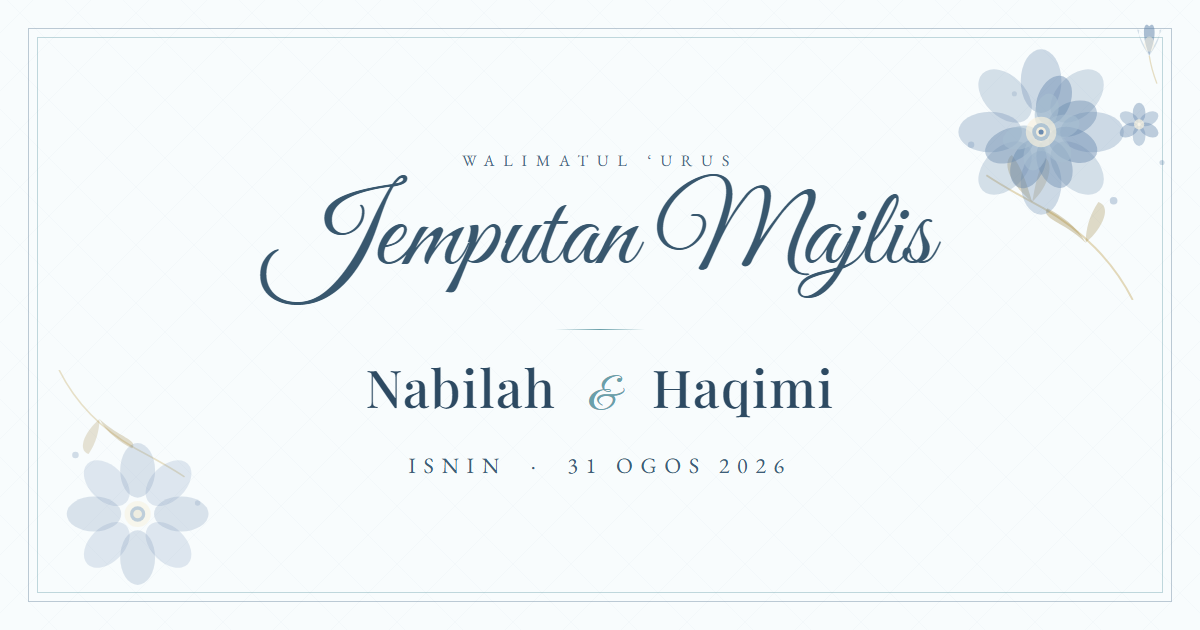
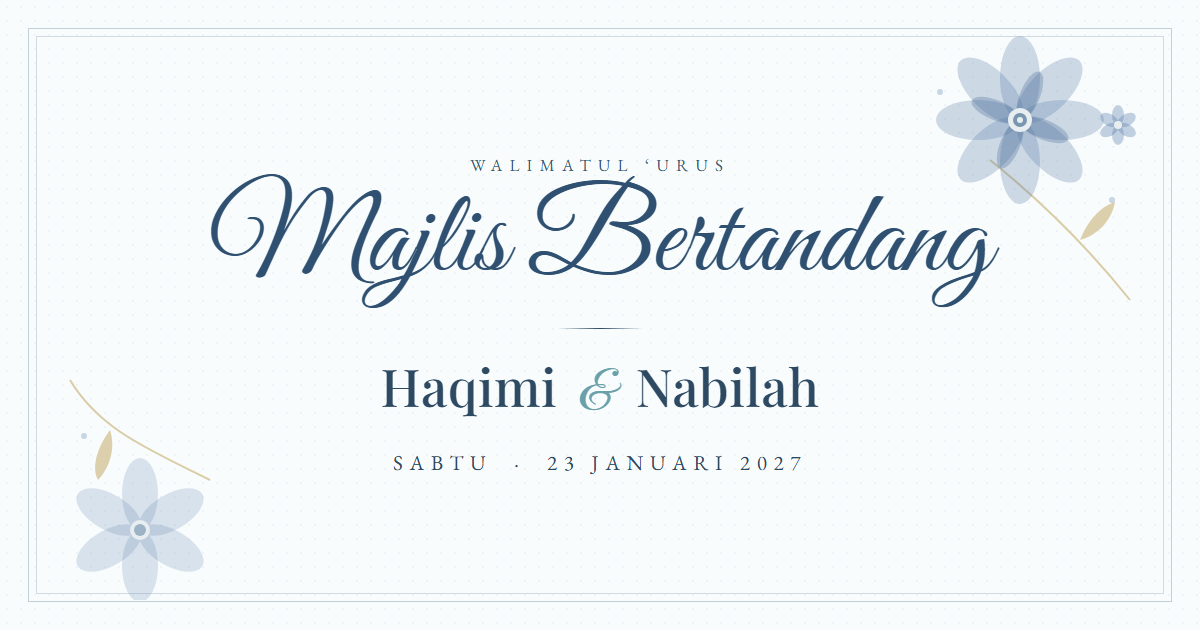
Refactor code structure for improved readability and maintainability

diff --git a/index.html b/index.html
@@ -3,8 +3,8 @@
 <head>
 <meta charset="UTF-8">
 <meta name="viewport" content="width=device-width, initial-scale=1.0">
-<title>Jemputan Majlis — Nabilah & Haqimi | 31 Ogos 2026</title>
-<meta name="description" content="Majlis Perkahwinan Nabilah & Haqimi | Isnin, 31 Ogos 2026. Tekan link untuk lihat undangan.">
+<title>Majlis Bertandang — Haqimi & Nabilah | 23 Januari 2027</title>
+<meta name="description" content="Majlis Bertandang Haqimi & Nabilah | Sabtu, 23 Januari 2027. Tekan link untuk lihat undangan.">
 
 <!-- Favicon -->
 <link rel="icon" type="image/png" sizes="32x32" href="favicon-32.png">
@@ -14,18 +14,18 @@
 <!-- Open Graph / WhatsApp / Facebook link preview -->
 <meta property="og:type" content="website">
 <meta property="og:url" content="https://qimibella.vercel.app/">
-<meta property="og:title" content="Jemputan Majlis — Nabilah & Haqimi">
-<meta property="og:description" content="Majlis Perkahwinan Nabilah & Haqimi | Isnin, 31 Ogos 2026. Tekan link untuk lihat undangan.">
-<meta property="og:image" content="https://qimibella.vercel.app/og-image.png">
+<meta property="og:title" content="Jemputan Majlis Bertandang — Haqimi & Nabilah">
+<meta property="og:description" content="Majlis Bertandang Haqimi & Nabilah | Sabtu, 23 Januari 2027. Tekan link untuk lihat undangan.">
+<meta property="og:image" content="https://qimibella.vercel.app/og-image.png?v=2">
 <meta property="og:image:width" content="1200">
 <meta property="og:image:height" content="630">
 <meta property="og:locale" content="ms_MY">
 
 <!-- Twitter Card -->
 <meta name="twitter:card" content="summary_large_image">
-<meta name="twitter:title" content="Jemputan Majlis — Nabilah & Haqimi">
-<meta name="twitter:description" content="Majlis Perkahwinan Nabilah & Haqimi | Isnin, 31 Ogos 2026. Tekan link untuk lihat undangan.">
-<meta name="twitter:image" content="https://qimibella.vercel.app/og-image.png">
+<meta name="twitter:title" content="Jemputan Majlis Bertandang — Haqimi & Nabilah">
+<meta name="twitter:description" content="Majlis Bertandang Haqimi & Nabilah | Sabtu, 23 Januari 2027. Tekan link untuk lihat undangan.">
+<meta name="twitter:image" content="https://qimibella.vercel.app/og-image.png?v=2">
 
 <link href="https://fonts.googleapis.com/css2?family=Great+Vibes&family=Ephesis&family=Parisienne&family=Playfair+Display:ital,wght@0,400;0,500;0,700;1,400;1,500&family=EB+Garamond:ital,wght@0,400;0,500;1,400&family=Montserrat:wght@200;300;400;500&display=swap" rel="stylesheet">
 <style>
@@ -891,10 +891,10 @@ input, select, textarea { font-size: 16px !important; } /* prevent iOS zoom */
       <div class="env-inner-card" id="env-inner-card">
         <div class="env-card-line"></div>
         <div class="env-card-names">
-          Nabilah<span class="env-card-amp"> &amp; </span>Haqimi
+          Haqimi<span class="env-card-amp"> &amp; </span>Nabilah
         </div>
         <div class="env-card-line"></div>
-        <div class="env-card-date">31 · 08 · 2026</div>
+        <div class="env-card-date">23 · 01 · 2027</div>
       </div>
       <!-- Wax seal -->
       <div class="env-seal">
@@ -1159,13 +1159,13 @@ input, select, textarea { font-size: 16px !important; } /* prevent iOS zoom */
     <p class="hero-invite">Dengan penuh kerendahan hati, kami menjemput kehadiran</p>
     <div class="hero-line"></div>
     <div class="hero-monogram" aria-hidden="true">
-      <span class="mono-n">N</span>
-      <span class="mono-h">H</span>
+      <span class="mono-n">H</span>
+      <span class="mono-h">N</span>
     </div>
-    <div class="hero-groom">Nabilah</div>
+    <div class="hero-groom">Haqimi</div>
     <div class="hero-amp">&amp;</div>
-    <div class="hero-bride">Haqimi</div>
-    <p class="hero-date">Isnin &nbsp;·&nbsp; 31 Ogos 2026</p>
+    <div class="hero-bride">Nabilah</div>
+    <p class="hero-date">Sabtu &nbsp;·&nbsp; 23 Januari 2027</p>
     <p class="hero-hashtags">#BellaFoundHerQimistry &nbsp;·&nbsp; #QimiRingTheBella &nbsp;·&nbsp; #QimiBella2026</p>
   </div>
   <div class="scroll-hint">
@@ -1184,14 +1184,14 @@ input, select, textarea { font-size: 16px !important; } /* prevent iOS zoom */
 
   <div class="family-wrap">
     <div class="family-names">
-      Zahar (Mail) Bin Ithnin<br>
+      Harun Bin Salleh<br>
       <span class="family-and">&amp;</span><br>
-      Sa'diah Binti Othman
+      Cheku Noor Hayati Binti Jusoh
     </div>
     <div class="family-invite-text">
       dengan penuh kegembiraan dan kebanggaan<br>
       menjemput kehadiran Tuan / Puan<br>
-      ke majlis perkahwinan anakanda mereka
+      ke majlis menyambut menantu mereka
     </div>
   </div>
 </section>
@@ -1202,14 +1202,44 @@ input, select, textarea { font-size: 16px !important; } /* prevent iOS zoom */
   <div class="sec-rose sec-rose-tr"><svg viewBox="0 0 80 80" fill="none" xmlns="http://www.w3.org/2000/svg"><path d="M6 78 C10 58 16 38 22 18" stroke="rgba(140,108,28,0.4)" stroke-width="1.2" fill="none"/><path d="M14 52 C2 45 0 33 6 29 C12 38 14 46 14 52Z" fill="rgba(140,108,28,0.28)"/><path d="M14 52 C26 45 28 33 22 29 C18 38 15 46 14 52Z" fill="rgba(140,108,28,0.2)"/><g transform="translate(22,18)"><ellipse cx="0" cy="-14" rx="8" ry="11" fill="rgba(91,127,168,0.38)" transform="rotate(0)"/><ellipse cx="0" cy="-14" rx="8" ry="11" fill="rgba(91,127,168,0.32)" transform="rotate(45)"/><ellipse cx="0" cy="-14" rx="8" ry="11" fill="rgba(91,127,168,0.38)" transform="rotate(90)"/><ellipse cx="0" cy="-14" rx="8" ry="11" fill="rgba(91,127,168,0.32)" transform="rotate(135)"/><ellipse cx="0" cy="-14" rx="8" ry="11" fill="rgba(91,127,168,0.38)" transform="rotate(180)"/><ellipse cx="0" cy="-14" rx="8" ry="11" fill="rgba(91,127,168,0.32)" transform="rotate(225)"/><ellipse cx="0" cy="-14" rx="8" ry="11" fill="rgba(91,127,168,0.38)" transform="rotate(270)"/><ellipse cx="0" cy="-14" rx="8" ry="11" fill="rgba(91,127,168,0.32)" transform="rotate(315)"/><ellipse cx="0" cy="-9" rx="5" ry="7" fill="rgba(160,185,205,0.52)" transform="rotate(22)"/><ellipse cx="0" cy="-9" rx="5" ry="7" fill="rgba(160,185,205,0.46)" transform="rotate(112)"/><ellipse cx="0" cy="-9" rx="5" ry="7" fill="rgba(160,185,205,0.52)" transform="rotate(202)"/><circle r="5" fill="rgba(247,240,220,0.65)"/><circle r="2.5" fill="rgba(160,185,205,0.88)"/></g><g transform="translate(22,6)"><path d="M0 0 C-3,-8 -1,-13 0,-10 C1,-13 3,-8 0,0Z" fill="rgba(91,127,168,0.45)"/><path d="M0 0 C2,-7 4,-10 3,-9 C2,-6 1,-3 0,0Z" fill="rgba(160,185,205,0.38)"/></g></svg></div>
   <div class="sec-rose sec-rose-bl"><svg viewBox="0 0 80 80" fill="none" xmlns="http://www.w3.org/2000/svg"><path d="M6 78 C10 58 16 38 22 18" stroke="rgba(140,108,28,0.4)" stroke-width="1.2" fill="none"/><path d="M14 52 C2 45 0 33 6 29 C12 38 14 46 14 52Z" fill="rgba(140,108,28,0.28)"/><path d="M14 52 C26 45 28 33 22 29 C18 38 15 46 14 52Z" fill="rgba(140,108,28,0.2)"/><g transform="translate(22,18)"><ellipse cx="0" cy="-14" rx="8" ry="11" fill="rgba(91,127,168,0.38)" transform="rotate(0)"/><ellipse cx="0" cy="-14" rx="8" ry="11" fill="rgba(91,127,168,0.32)" transform="rotate(45)"/><ellipse cx="0" cy="-14" rx="8" ry="11" fill="rgba(91,127,168,0.38)" transform="rotate(90)"/><ellipse cx="0" cy="-14" rx="8" ry="11" fill="rgba(91,127,168,0.32)" transform="rotate(135)"/><ellipse cx="0" cy="-14" rx="8" ry="11" fill="rgba(91,127,168,0.38)" transform="rotate(180)"/><ellipse cx="0" cy="-14" rx="8" ry="11" fill="rgba(91,127,168,0.32)" transform="rotate(225)"/><ellipse cx="0" cy="-14" rx="8" ry="11" fill="rgba(91,127,168,0.38)" transform="rotate(270)"/><ellipse cx="0" cy="-14" rx="8" ry="11" fill="rgba(91,127,168,0.32)" transform="rotate(315)"/><ellipse cx="0" cy="-9" rx="5" ry="7" fill="rgba(160,185,205,0.52)" transform="rotate(22)"/><ellipse cx="0" cy="-9" rx="5" ry="7" fill="rgba(160,185,205,0.46)" transform="rotate(112)"/><ellipse cx="0" cy="-9" rx="5" ry="7" fill="rgba(160,185,205,0.52)" transform="rotate(202)"/><circle r="5" fill="rgba(247,240,220,0.65)"/><circle r="2.5" fill="rgba(160,185,205,0.88)"/></g><g transform="translate(22,6)"><path d="M0 0 C-3,-8 -1,-13 0,-10 C1,-13 3,-8 0,0Z" fill="rgba(91,127,168,0.45)"/><path d="M0 0 C2,-7 4,-10 3,-9 C2,-6 1,-3 0,0Z" fill="rgba(160,185,205,0.38)"/></g></svg></div>
   <div class="sec-rose sec-rose-br"><svg viewBox="0 0 80 80" fill="none" xmlns="http://www.w3.org/2000/svg"><path d="M6 78 C10 58 16 38 22 18" stroke="rgba(140,108,28,0.4)" stroke-width="1.2" fill="none"/><path d="M14 52 C2 45 0 33 6 29 C12 38 14 46 14 52Z" fill="rgba(140,108,28,0.28)"/><path d="M14 52 C26 45 28 33 22 29 C18 38 15 46 14 52Z" fill="rgba(140,108,28,0.2)"/><g transform="translate(22,18)"><ellipse cx="0" cy="-14" rx="8" ry="11" fill="rgba(91,127,168,0.38)" transform="rotate(0)"/><ellipse cx="0" cy="-14" rx="8" ry="11" fill="rgba(91,127,168,0.32)" transform="rotate(45)"/><ellipse cx="0" cy="-14" rx="8" ry="11" fill="rgba(91,127,168,0.38)" transform="rotate(90)"/><ellipse cx="0" cy="-14" rx="8" ry="11" fill="rgba(91,127,168,0.32)" transform="rotate(135)"/><ellipse cx="0" cy="-14" rx="8" ry="11" fill="rgba(91,127,168,0.38)" transform="rotate(180)"/><ellipse cx="0" cy="-14" rx="8" ry="11" fill="rgba(91,127,168,0.32)" transform="rotate(225)"/><ellipse cx="0" cy="-14" rx="8" ry="11" fill="rgba(91,127,168,0.38)" transform="rotate(270)"/><ellipse cx="0" cy="-14" rx="8" ry="11" fill="rgba(91,127,168,0.32)" transform="rotate(315)"/><ellipse cx="0" cy="-9" rx="5" ry="7" fill="rgba(160,185,205,0.52)" transform="rotate(22)"/><ellipse cx="0" cy="-9" rx="5" ry="7" fill="rgba(160,185,205,0.46)" transform="rotate(112)"/><ellipse cx="0" cy="-9" rx="5" ry="7" fill="rgba(160,185,205,0.52)" transform="rotate(202)"/><circle r="5" fill="rgba(247,240,220,0.65)"/><circle r="2.5" fill="rgba(160,185,205,0.88)"/></g><g transform="translate(22,6)"><path d="M0 0 C-3,-8 -1,-13 0,-10 C1,-13 3,-8 0,0Z" fill="rgba(91,127,168,0.45)"/><path d="M0 0 C2,-7 4,-10 3,-9 C2,-6 1,-3 0,0Z" fill="rgba(160,185,205,0.38)"/></g></svg></div>
-  <p class="section-eyebrow">Bakal Pengantin</p>
+  <p class="section-eyebrow">Raja Sehari</p>
   <div class="divider"><span>✦</span></div>
 
-  <div class="couple-big-name reveal reveal-delay-1">Nadiatul Nabilah</div>
-  <div class="couple-big-full reveal reveal-delay-1">Nadiatul Nabilah binti Zahar</div>
+  <div class="couple-big-name reveal reveal-delay-1">Muhammad Haqimi</div>
+  <div class="couple-big-full reveal reveal-delay-1">Muhammad Haqimi bin Harun</div>
   <div class="couple-big-amp reveal reveal-delay-2">&amp;</div>
-  <div class="couple-big-name reveal reveal-delay-3">Muhammad Haqimi</div>
-  <div class="couple-big-full reveal reveal-delay-3">Muhammad Haqimi bin Harun</div>
+  <div class="couple-big-name reveal reveal-delay-3">Nadiatul Nabilah</div>
+  <div class="couple-big-full reveal reveal-delay-3">Nadiatul Nabilah binti Zahar</div>
+</div>
+
+<!-- ══════════════ GALLERY ══════════════ -->
+<div class="gallery-section reveal">
+  <div style="max-width:720px;margin:0 auto;text-align:center">
+    <p class="section-eyebrow">Kenangan Bersama</p>
+    <h2 class="section-title">Galeri</h2>
+    <div class="divider"><span>✦</span></div>
+    <div class="gallery-grid">
+      <div class="gallery-item main-photo" onclick="openLightbox(0)">
+        <img src="photo1.jpg" alt="Haqimi &amp; Nabilah memotong kek" style="object-position:center 30%" loading="lazy" onload="this.classList.add('loaded')" onerror="this.remove()">
+      </div>
+      <div class="gallery-item" onclick="openLightbox(1)">
+        <img src="photo2.jpg" alt="Majlis akad nikah" loading="lazy" onload="this.classList.add('loaded')" onerror="this.remove()">
+      </div>
+      <div class="gallery-item" onclick="openLightbox(2)">
+        <img src="photo3.jpg" alt="Menyarung cincin" loading="lazy" onload="this.classList.add('loaded')" onerror="this.remove()">
+      </div>
+      <div class="gallery-item" onclick="openLightbox(3)">
+        <img src="photo4.jpg" alt="Berjalan berpegangan tangan" loading="lazy" onload="this.classList.add('loaded')" onerror="this.remove()">
+      </div>
+      <div class="gallery-item" onclick="openLightbox(4)">
+        <img src="photo5.jpg" alt="Duduk bersama di taman" loading="lazy" onload="this.classList.add('loaded')" onerror="this.remove()">
+      </div>
+    </div>
+  </div>
+</div>
+<div class="lightbox" id="lightbox" onclick="closeLightbox()">
+  <button class="lightbox-close" onclick="event.stopPropagation();closeLightbox()">✕</button>
+  <img id="lightbox-img" src="" alt="">
 </div>
 
 <!-- ══════════════ EVENTS ══════════════ -->
@@ -1223,36 +1253,12 @@ input, select, textarea { font-size: 16px !important; } /* prevent iOS zoom */
 
     <!-- Single merged card -->
     <div class="event-card reveal" style="max-width:520px;margin:0 auto">
-      <span class="event-tag">Isnin · 31 Ogos 2026</span>
+      <span class="event-tag">Sabtu · 23 Januari 2027</span>
 
-      <!-- Akad Nikah row -->
+      <!-- Majlis Bertandang row -->
       <div style="margin-top:24px;margin-bottom:8px">
-        <div class="event-name" style="font-size:20px;margin-bottom:14px">Akad Nikah</div>
-        <div class="event-detail-row">
-          <svg viewBox="0 0 24 24" stroke-width="1.5"><circle cx="12" cy="12" r="10"/><path d="M12 6v6l4 2"/></svg>
-          <span>9:00 pagi — 10:30 pagi</span>
-        </div>
-        <div class="event-detail-row" style="align-items:flex-start">
-          <svg viewBox="0 0 24 24" stroke-width="1.5" style="margin-top:2px"><circle cx="12" cy="10" r="3"/><path d="M12 2C8.13 2 5 5.13 5 9c0 5.25 7 13 7 13s7-7.75 7-13c0-3.87-3.13-7-7-7z"/></svg>
-          <span>Masjid Al-Abrar, Balik Bukit</span>
-        </div>
-        <div class="map-btns" style="margin-top:14px">
-          <a class="map-btn" href="https://waze.com/ul/hw22u2w3n5" target="_blank" rel="noopener">
-            <svg viewBox="0 0 24 24" stroke-width="1.5"><circle cx="12" cy="10" r="3"/><path d="M12 2C8.13 2 5 5.13 5 9c0 5.25 7 13 7 13s7-7.75 7-13c0-3.87-3.13-7-7-7z"/></svg>
-            Waze
-          </a>
-          <a class="map-btn" href="https://maps.app.goo.gl/ttTGHLoP1aNbjdee9?g_st=ic" target="_blank" rel="noopener">
-            <svg viewBox="0 0 24 24" stroke-width="1.5"><circle cx="12" cy="10" r="3"/><path d="M12 2C8.13 2 5 5.13 5 9c0 5.25 7 13 7 13s7-7.75 7-13c0-3.87-3.13-7-7-7z"/></svg>
-            Google Maps
-          </a>
-        </div>
-      </div>
-
-      <div class="event-sep"></div>
-
-      <!-- Walimatul Urus row -->
-      <div style="margin-bottom:8px">
-        <div class="event-name" style="font-size:20px;margin-bottom:14px">Walimatul 'Urus</div>
+        <div class="event-name" style="font-size:20px;margin-bottom:4px">Walimatul 'Urus</div>
+        <div style="font-family:'EB Garamond',serif;font-style:italic;font-size:15px;opacity:0.75;margin-bottom:14px">(Majlis Bertandang)</div>
         <div class="event-detail-row">
           <svg viewBox="0 0 24 24" stroke-width="1.5"><circle cx="12" cy="12" r="10"/><path d="M12 6v6l4 2"/></svg>
           <span>Jamuan Makan: 11:30 pagi — 4:00 petang</span>
@@ -1263,14 +1269,10 @@ input, select, textarea { font-size: 16px !important; } /* prevent iOS zoom */
         </div>
         <div class="event-detail-row" style="align-items:flex-start">
           <svg viewBox="0 0 24 24" stroke-width="1.5" style="margin-top:2px"><circle cx="12" cy="10" r="3"/><path d="M12 2C8.13 2 5 5.13 5 9c0 5.25 7 13 7 13s7-7.75 7-13c0-3.87-3.13-7-7-7z"/></svg>
-          <span>Lot 1567, Jalan Hajah Maimon<br>Kampung Tambak Bugis, Telok Mas<br>75460 Melaka</span>
+          <span>Lot 4339, Jalan Taman Jaya<br>Cherang Ruku<br>16700 Kelantan</span>
         </div>
         <div class="map-btns" style="margin-top:14px">
-          <a class="map-btn" href="https://ul.waze.com/ul?ll=2.18288643%2C102.32120991&navigate=yes&utm_campaign=default&utm_source=waze_website&utm_medium=lm_share_location" target="_blank" rel="noopener">
-            <svg viewBox="0 0 24 24" stroke-width="1.5"><circle cx="12" cy="10" r="3"/><path d="M12 2C8.13 2 5 5.13 5 9c0 5.25 7 13 7 13s7-7.75 7-13c0-3.87-3.13-7-7-7z"/></svg>
-            Waze
-          </a>
-          <a class="map-btn" href="https://maps.app.goo.gl/JoRdubGkanzUXzLk8" target="_blank" rel="noopener">
+          <a class="map-btn" href="https://maps.app.goo.gl/XNP6zezug3LbQWx98" target="_blank" rel="noopener">
             <svg viewBox="0 0 24 24" stroke-width="1.5"><circle cx="12" cy="10" r="3"/><path d="M12 2C8.13 2 5 5.13 5 9c0 5.25 7 13 7 13s7-7.75 7-13c0-3.87-3.13-7-7-7z"/></svg>
             Google Maps
           </a>
@@ -1302,10 +1304,10 @@ input, select, textarea { font-size: 16px !important; } /* prevent iOS zoom */
   <h2 class="section-title">Simpan Tarikh</h2>
   <div class="divider"><span>✦</span></div>
   <p style="font-family:'EB Garamond',serif;font-style:italic;font-size:16px;color:var(--muted);line-height:1.8">
-    Isnin &nbsp;·&nbsp; 31 Ogos 2026
+    Sabtu &nbsp;·&nbsp; 23 Januari 2027
   </p>
   <div class="savedate-btns">
-    <a class="savedate-btn" href="https://calendar.google.com/calendar/render?action=TEMPLATE&text=Majlis+Perkahwinan+Nabilah+%26+Haqimi&dates=20260831T040000Z%2F20260831T090000Z&details=Walimatul+%27Urus+%E2%80%94+Nabilah+%26+Haqimi+%7C+qimibella.vercel.app&location=Lot+1567%2C+Jalan+Hajah+Maimon%2C+Kampung+Tambak+Bugis%2C+75460+Melaka" target="_blank" rel="noopener">
+    <a class="savedate-btn" href="https://calendar.google.com/calendar/render?action=TEMPLATE&text=Majlis+Bertandang+Haqimi+%26+Nabilah&dates=20270123T033000Z%2F20270123T080000Z&details=Majlis+Bertandang+%E2%80%94+Haqimi+%26+Nabilah+%7C+qimibella.vercel.app&location=Lot+4339%2C+Jalan+Taman+Jaya%2C+Cherang+Ruku%2C+16700+Kelantan" target="_blank" rel="noopener">
       Google Calendar
     </a>
     <button class="savedate-btn" onclick="downloadICS()">
@@ -1405,21 +1407,13 @@ input, select, textarea { font-size: 16px !important; } /* prevent iOS zoom */
     Sebarang pertanyaan mengenai majlis, sila hubungi kami terus melalui WhatsApp.
   </p>
   <div class="hubungi-btns" style="display:grid;grid-template-columns:1fr 1fr;gap:10px;max-width:480px;margin:32px auto 0">
-    <a class="wa-btn" href="https://wa.me/60196677670?text=Assalamualaikum+Zahar%2C+saya+ingin+bertanya+tentang+majlis+perkahwinan+Nabilah+%26+Haqimi." target="_blank" rel="noopener">
+    <a class="wa-btn" href="https://wa.me/60164422486?text=Assalamualaikum+Cheku+Noor+Hayati%2C+saya+ingin+bertanya+tentang+Majlis+Bertandang+Haqimi+%26+Nabilah." target="_blank" rel="noopener">
       <svg viewBox="0 0 24 24"><path d="M17.472 14.382c-.297-.149-1.758-.867-2.03-.967-.273-.099-.471-.148-.67.15-.197.297-.767.966-.94 1.164-.173.199-.347.223-.644.075-.297-.15-1.255-.463-2.39-1.475-.883-.788-1.48-1.761-1.653-2.059-.173-.297-.018-.458.13-.606.134-.133.298-.347.446-.52.149-.174.198-.298.298-.497.099-.198.05-.371-.025-.52-.075-.149-.669-1.612-.916-2.207-.242-.579-.487-.5-.669-.51-.173-.008-.371-.01-.57-.01-.198 0-.52.074-.792.372-.272.297-1.04 1.016-1.04 2.479 0 1.462 1.065 2.875 1.213 3.074.149.198 2.096 3.2 5.077 4.487.709.306 1.262.489 1.694.625.712.227 1.36.195 1.871.118.571-.085 1.758-.719 2.006-1.413.248-.694.248-1.289.173-1.413-.074-.124-.272-.198-.57-.347m-5.421 7.403h-.004a9.87 9.87 0 01-5.031-1.378l-.361-.214-3.741.982.998-3.648-.235-.374a9.86 9.86 0 01-1.51-5.26c.001-5.45 4.436-9.884 9.888-9.884 2.64 0 5.122 1.03 6.988 2.898a9.825 9.825 0 012.893 6.994c-.003 5.45-4.437 9.884-9.885 9.884m8.413-18.297A11.815 11.815 0 0012.05 0C5.495 0 .16 5.335.157 11.892c0 2.096.547 4.142 1.588 5.945L.057 24l6.305-1.654a11.882 11.882 0 005.683 1.448h.005c6.554 0 11.89-5.335 11.893-11.893a11.821 11.821 0 00-3.48-8.413z"/></svg>
-      <span>Zahar <small style="display:block;font-size:7px;opacity:0.8;letter-spacing:0.1em">(Ayah)</small></span>
+      <span>Cheku Noor Hayati <small style="display:block;font-size:7px;opacity:0.8;letter-spacing:0.1em">(Ibu)</small></span>
     </a>
-    <a class="wa-btn" href="https://wa.me/60196606604?text=Assalamualaikum+Sa%27diah%2C+saya+ingin+bertanya+tentang+majlis+perkahwinan+Nabilah+%26+Haqimi." target="_blank" rel="noopener">
+    <a class="wa-btn" href="https://wa.me/601119987711?text=Assalamualaikum+Aina+Mardia%2C+saya+ingin+bertanya+tentang+Majlis+Bertandang+Haqimi+%26+Nabilah." target="_blank" rel="noopener">
       <svg viewBox="0 0 24 24"><path d="M17.472 14.382c-.297-.149-1.758-.867-2.03-.967-.273-.099-.471-.148-.67.15-.197.297-.767.966-.94 1.164-.173.199-.347.223-.644.075-.297-.15-1.255-.463-2.39-1.475-.883-.788-1.48-1.761-1.653-2.059-.173-.297-.018-.458.13-.606.134-.133.298-.347.446-.52.149-.174.198-.298.298-.497.099-.198.05-.371-.025-.52-.075-.149-.669-1.612-.916-2.207-.242-.579-.487-.5-.669-.51-.173-.008-.371-.01-.57-.01-.198 0-.52.074-.792.372-.272.297-1.04 1.016-1.04 2.479 0 1.462 1.065 2.875 1.213 3.074.149.198 2.096 3.2 5.077 4.487.709.306 1.262.489 1.694.625.712.227 1.36.195 1.871.118.571-.085 1.758-.719 2.006-1.413.248-.694.248-1.289.173-1.413-.074-.124-.272-.198-.57-.347m-5.421 7.403h-.004a9.87 9.87 0 01-5.031-1.378l-.361-.214-3.741.982.998-3.648-.235-.374a9.86 9.86 0 01-1.51-5.26c.001-5.45 4.436-9.884 9.888-9.884 2.64 0 5.122 1.03 6.988 2.898a9.825 9.825 0 012.893 6.994c-.003 5.45-4.437 9.884-9.885 9.884m8.413-18.297A11.815 11.815 0 0012.05 0C5.495 0 .16 5.335.157 11.892c0 2.096.547 4.142 1.588 5.945L.057 24l6.305-1.654a11.882 11.882 0 005.683 1.448h.005c6.554 0 11.89-5.335 11.893-11.893a11.821 11.821 0 00-3.48-8.413z"/></svg>
-      <span>Sa'diah <small style="display:block;font-size:7px;opacity:0.8;letter-spacing:0.1em">(Ibu)</small></span>
-    </a>
-    <a class="wa-btn" href="https://wa.me/60179042054?text=Assalamualaikum+Syafiq%2C+saya+ingin+bertanya+tentang+majlis+perkahwinan+Nabilah+%26+Haqimi." target="_blank" rel="noopener">
-      <svg viewBox="0 0 24 24"><path d="M17.472 14.382c-.297-.149-1.758-.867-2.03-.967-.273-.099-.471-.148-.67.15-.197.297-.767.966-.94 1.164-.173.199-.347.223-.644.075-.297-.15-1.255-.463-2.39-1.475-.883-.788-1.48-1.761-1.653-2.059-.173-.297-.018-.458.13-.606.134-.133.298-.347.446-.52.149-.174.198-.298.298-.497.099-.198.05-.371-.025-.52-.075-.149-.669-1.612-.916-2.207-.242-.579-.487-.5-.669-.51-.173-.008-.371-.01-.57-.01-.198 0-.52.074-.792.372-.272.297-1.04 1.016-1.04 2.479 0 1.462 1.065 2.875 1.213 3.074.149.198 2.096 3.2 5.077 4.487.709.306 1.262.489 1.694.625.712.227 1.36.195 1.871.118.571-.085 1.758-.719 2.006-1.413.248-.694.248-1.289.173-1.413-.074-.124-.272-.198-.57-.347m-5.421 7.403h-.004a9.87 9.87 0 01-5.031-1.378l-.361-.214-3.741.982.998-3.648-.235-.374a9.86 9.86 0 01-1.51-5.26c.001-5.45 4.436-9.884 9.888-9.884 2.64 0 5.122 1.03 6.988 2.898a9.825 9.825 0 012.893 6.994c-.003 5.45-4.437 9.884-9.885 9.884m8.413-18.297A11.815 11.815 0 0012.05 0C5.495 0 .16 5.335.157 11.892c0 2.096.547 4.142 1.588 5.945L.057 24l6.305-1.654a11.882 11.882 0 005.683 1.448h.005c6.554 0 11.89-5.335 11.893-11.893a11.821 11.821 0 00-3.48-8.413z"/></svg>
-      <span>Syafiq <small style="display:block;font-size:7px;opacity:0.8;letter-spacing:0.1em">(Anak)</small></span>
-    </a>
-    <a class="wa-btn" href="https://wa.me/60186608752?text=Assalamualaikum+Zuhairi%2C+saya+ingin+bertanya+tentang+majlis+perkahwinan+Nabilah+%26+Haqimi." target="_blank" rel="noopener">
-      <svg viewBox="0 0 24 24"><path d="M17.472 14.382c-.297-.149-1.758-.867-2.03-.967-.273-.099-.471-.148-.67.15-.197.297-.767.966-.94 1.164-.173.199-.347.223-.644.075-.297-.15-1.255-.463-2.39-1.475-.883-.788-1.48-1.761-1.653-2.059-.173-.297-.018-.458.13-.606.134-.133.298-.347.446-.52.149-.174.198-.298.298-.497.099-.198.05-.371-.025-.52-.075-.149-.669-1.612-.916-2.207-.242-.579-.487-.5-.669-.51-.173-.008-.371-.01-.57-.01-.198 0-.52.074-.792.372-.272.297-1.04 1.016-1.04 2.479 0 1.462 1.065 2.875 1.213 3.074.149.198 2.096 3.2 5.077 4.487.709.306 1.262.489 1.694.625.712.227 1.36.195 1.871.118.571-.085 1.758-.719 2.006-1.413.248-.694.248-1.289.173-1.413-.074-.124-.272-.198-.57-.347m-5.421 7.403h-.004a9.87 9.87 0 01-5.031-1.378l-.361-.214-3.741.982.998-3.648-.235-.374a9.86 9.86 0 01-1.51-5.26c.001-5.45 4.436-9.884 9.888-9.884 2.64 0 5.122 1.03 6.988 2.898a9.825 9.825 0 012.893 6.994c-.003 5.45-4.437 9.884-9.885 9.884m8.413-18.297A11.815 11.815 0 0012.05 0C5.495 0 .16 5.335.157 11.892c0 2.096.547 4.142 1.588 5.945L.057 24l6.305-1.654a11.882 11.882 0 005.683 1.448h.005c6.554 0 11.89-5.335 11.893-11.893a11.821 11.821 0 00-3.48-8.413z"/></svg>
-      <span>Zuhairi <small style="display:block;font-size:7px;opacity:0.8;letter-spacing:0.1em">(Anak)</small></span>
+      <span>Aina Mardia <small style="display:block;font-size:7px;opacity:0.8;letter-spacing:0.1em">(Kakak)</small></span>
     </a>
   </div>
 </div>
@@ -1539,7 +1533,7 @@ input, select, textarea { font-size: 16px !important; } /* prevent iOS zoom */
       <circle cx="67" cy="35" r="2" fill="#C9A84C"/>
     </svg>
 
-    <div class="footer-title">Nabilah &amp; Haqimi</div>
+    <div class="footer-title">Haqimi &amp; Nabilah</div>
 
     <div class="footer-ayat">
       "Dan Kami ciptakan kamu berpasang-pasangan."
@@ -1552,7 +1546,7 @@ input, select, textarea { font-size: 16px !important; } /* prevent iOS zoom */
       #BellaFoundHerQimistry &nbsp;·&nbsp; #QimiRingTheBella<br>#QimiBella2026
     </div>
 
-    <div class="footer-credit">© Haqimi Harun &nbsp;·&nbsp; All rights reserved &nbsp;·&nbsp; 31.08.2026</div>
+    <div class="footer-credit">© Haqimi Harun &nbsp;·&nbsp; All rights reserved &nbsp;·&nbsp; 23.01.2027</div>
   </div>
 </div>
 
@@ -1610,7 +1604,7 @@ input, select, textarea { font-size: 16px !important; } /* prevent iOS zoom */
 
 // ── Countdown
 function updateCountdown(){
-  const target=new Date('2026-08-31T09:00:00+08:00').getTime();
+  const target=new Date('2027-01-23T11:30:00+08:00').getTime();
   const diff=target-Date.now();
   if(diff<0){
     ['cd-days','cd-hours','cd-mins','cd-secs'].forEach(id=>document.getElementById(id).textContent='00');
@@ -1745,16 +1739,16 @@ function downloadICS(){
   const ics=[
     'BEGIN:VCALENDAR','VERSION:2.0','PRODID:-//QimiBella//Wedding//EN',
     'BEGIN:VEVENT',
-    'DTSTART:20260831T040000Z',
-    'DTEND:20260831T090000Z',
-    'SUMMARY:Majlis Perkahwinan Nabilah & Haqimi',
-    "DESCRIPTION:Walimatul 'Urus — Nabilah & Haqimi\\nhttps://qimibella.vercel.app/",
-    'LOCATION:Lot 1567\\, Jalan Hajah Maimon\\, Kampung Tambak Bugis\\, 75460 Melaka',
+    'DTSTART:20270123T033000Z',
+    'DTEND:20270123T080000Z',
+    'SUMMARY:Majlis Bertandang Haqimi & Nabilah',
+    "DESCRIPTION:Majlis Bertandang — Haqimi & Nabilah\\nhttps://qimibella.vercel.app/",
+    'LOCATION:Lot 4339\\, Jalan Taman Jaya\\, Cherang Ruku\\, 16700 Kelantan',
     'END:VEVENT','END:VCALENDAR'
   ].join('\r\n');
   const a=document.createElement('a');
   a.href=URL.createObjectURL(new Blob([ics],{type:'text/calendar;charset=utf-8'}));
-  a.download='QimiBella2026.ics';
+  a.download='QimiBella-Bertandang.ics';
   document.body.appendChild(a);a.click();document.body.removeChild(a);
 }
 
